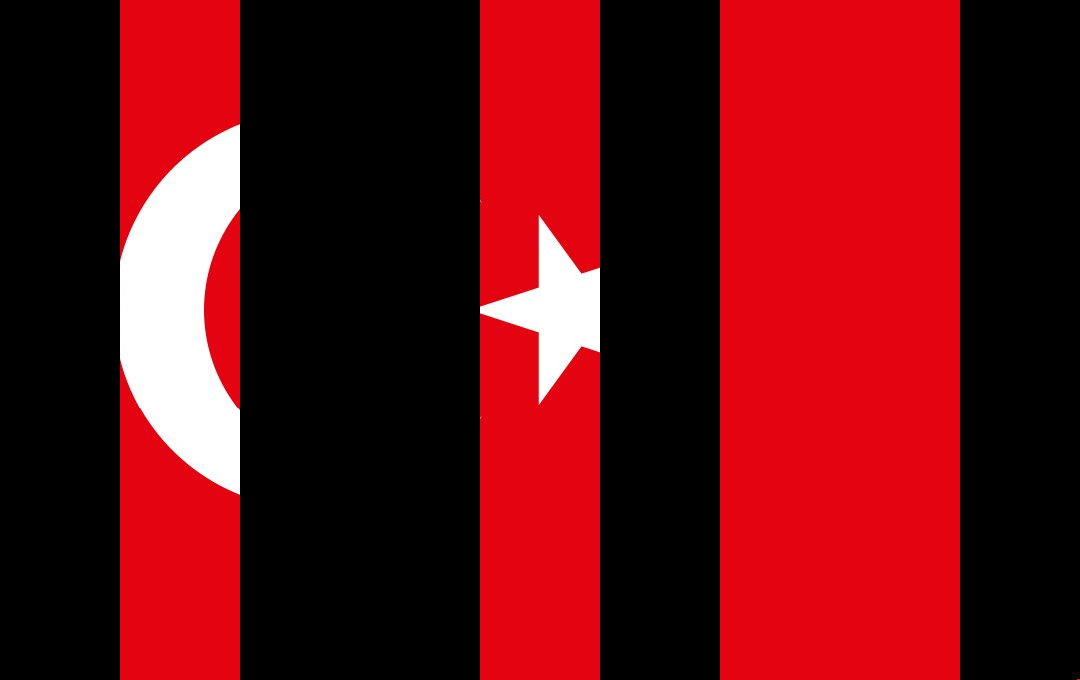
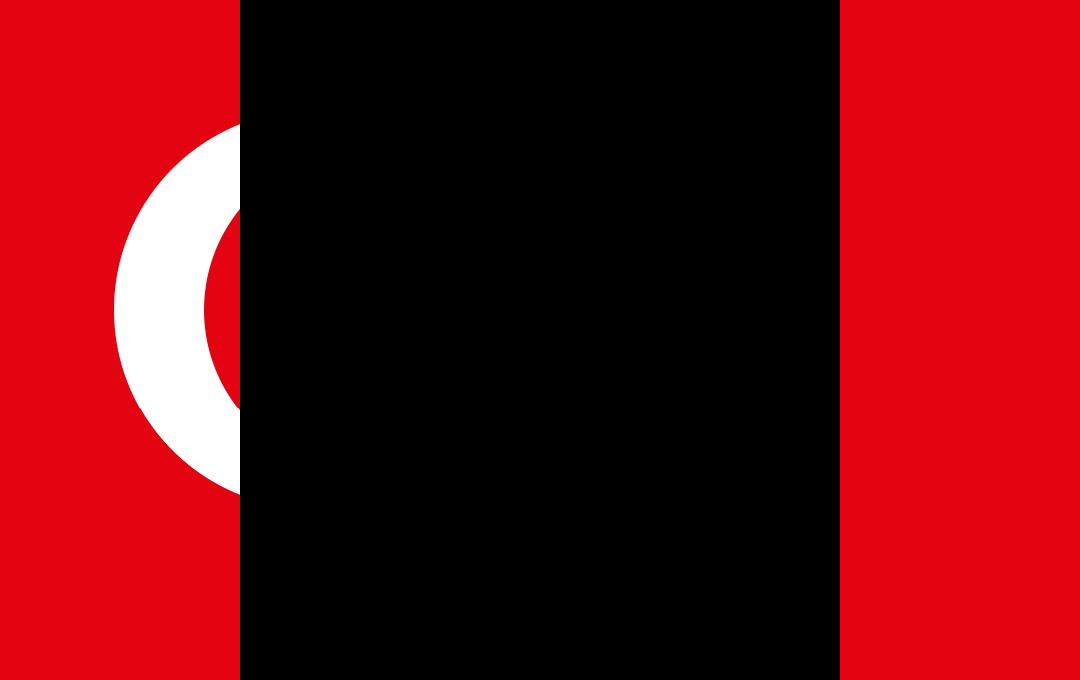
finally

diff --git a/gen.py b/gen.py
@@ -4,6 +4,8 @@ from copy import deepcopy as DEEP
 
 from random import randrange
 
+import __main__
+
 
 class Frame:
 
@@ -23,7 +25,7 @@ class Frame:
 
         Image.open(self.pieceFolder + "/" + fileName)
 
-    def putAPiece(self, pieceFile: str, x, y):
+    def putARegularPiece(self, pieceFile: str, x, y):
 
         coor = (x, y)
 
@@ -44,12 +46,7 @@ class Frame:
 
         return Frame(piece, x, y, piece.size[0], piece.size[1],  folder, ".png")
 
-    def nextRandomFrame(self) -> Image:
-
-        current = DEEP(self)
-
-        if len(self.pieces) >= (self.XP * self.YP):
-            return current
+    def nextRandomFrame(self):
 
         coor = (1, 1)
 
@@ -58,12 +55,17 @@ class Frame:
             coor = (randrange(0, self.XP), randrange(0, self.YP))
 
             if coor not in self.pieces:
-
                 break
+        return coor
 
-        pieceName = str( (self.XP - (coor[0])) + ( (self.YP - coor[1] - 1) * self.XP)) + self.extension
+    def completePiece(self, coor) -> Image:
+        current = DEEP(self)
+        if len(self.pieces) >= (self.XP * self.YP):
+            return current
 
-        current.putAPiece(pieceName, coor[0], coor[1])
+        pieceName = str(abs((self.XP - (coor[0])) + ((self.YP - coor[1] - 1) * self.XP))) + self.extension
+
+        current.putARegularPiece(pieceName, coor[0], coor[1])
 
         return current
 
@@ -106,19 +108,25 @@ def newPuzzle(image, target, extension, XP, YP):
             piece.save(f"{target}/{(XP * YP) - (xth + (yth * XP)) }{extension}")
 
 
-X = 9
-Y = 1
+def ordered():
+    X = 9
+    Y = 1
 
-newPuzzle("turkish_flag.png", "flag_pieces_9x1", ".png", X, Y)
+    # newPuzzle("turkish_flag.png", "flag_pieces_9x1", ".png", X, Y)
 
+    f = Frame.initStandart(X, Y, "flag_pieces_9x1")
 
+    optimalPlacing = [(8, 0), (0, 0), (7, 0), (1, 0), (6, 0), (2, 0), (5, 0), (3, 0), (4, 0)]
 
-f = Frame.initStandart(X, Y, "flag_pieces_9x1")
+    counter = 0
 
+    for i in optimalPlacing:
+        c = i
 
-for i in range(X * Y):
+        print(c)
 
-    f = f.nextRandomFrame()
+        f = f.completePiece(c)
 
-    f.canvas.save("frames_9x1/" + str(i + 1) + ".png")
+        f.canvas.save("frames_9x1/" + str(counter + 1) + ".png")
 
+        counter += 1
